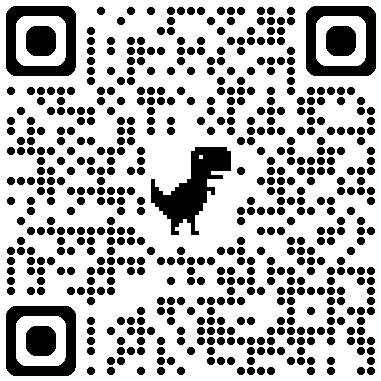
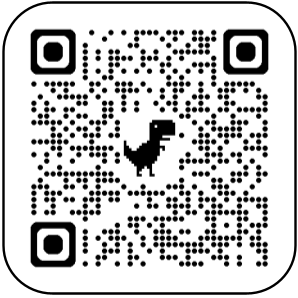
edited qr code

diff --git a/features/scenes/feedback/FeedbackScene.tsx b/features/scenes/feedback/FeedbackScene.tsx
@@ -33,13 +33,12 @@ export function FeedbackScene() {
           className="mt-2 w-1/4 max-w-[160px] shrink-0 object-contain"
         />
 
-        <div className="mt-4 min-h-0 w-5/6 max-w-md shrink rounded-[2rem] border border-[#AD8C45]/50 bg-white p-1.2">
-          <img
-            src="/feedback/feedbackQR.png"
-            alt="QR code linking to the team's feedback form"
-            className="block min-h-0 w-full object-contain"
-          />
-        </div>
+        <img
+          src="/feedback/feedbackQR.png"
+          alt="QR code linking to the team's feedback form"
+          className="block min-h-0 w-full object-contain"
+        />
+      
       </div>
     </SceneFrame>
   );
